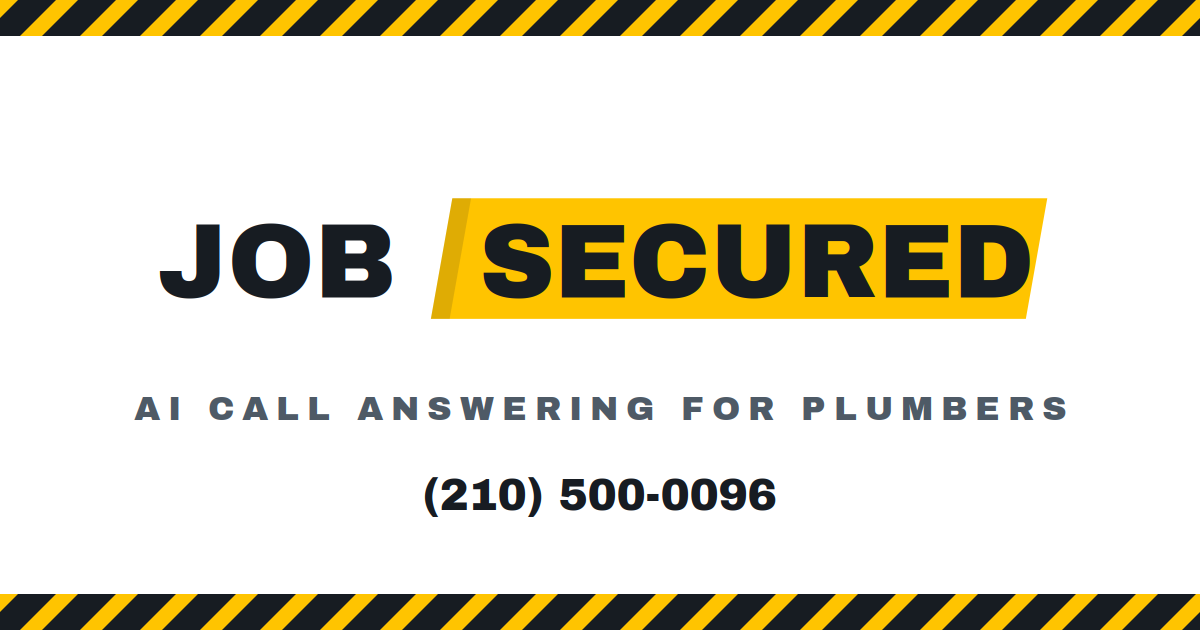
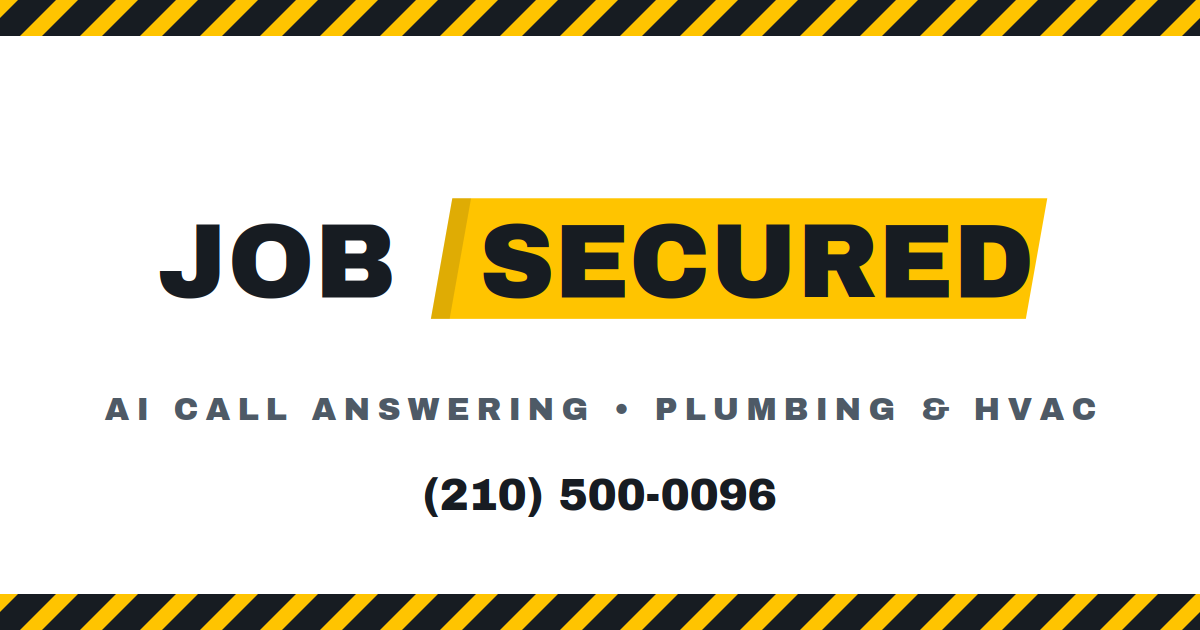
Adjust to fit hvac and background color change

Changed region(s): [[0.0925, 0.6333, 0.925, 0.6635]]

diff --git a/index.html b/index.html
@@ -3,8 +3,8 @@
 <head>
 <meta charset="UTF-8">
 <meta name="viewport" content="width=device-width, initial-scale=1.0">
-<title>JobSecured | AI Call Answering for Plumbers | San Antonio, TX</title>
-<meta name="description" content="JobSecured's AI receptionist answers every plumbing call you can't — 24/7. Books the job, texts you the lead, transfers real emergencies to your on-call phone. San Antonio, TX.">
+<title>JobSecured | AI Call Answering for Plumbing &amp; HVAC | San Antonio, TX</title>
+<meta name="description" content="JobSecured's AI receptionist answers every plumbing and HVAC call you can't — 24/7. Books the job, texts you the lead, transfers real emergencies to your on-call phone. San Antonio, TX.">
 <meta property="og:title" content="JobSecured | Never Miss Another Emergency Call">
 <meta property="og:description" content="An AI receptionist answers when you're under a sink or asleep. Books the job, texts you the lead, rings you for true emergencies.">
 <meta property="og:type" content="website">
@@ -20,7 +20,7 @@
   "@context": "https://schema.org",
   "@type": "LocalBusiness",
   "name": "JobSecured",
-  "description": "24/7 AI call answering for plumbing companies. Every missed call answered, every lead captured, emergencies transferred live.",
+  "description": "24/7 AI call answering for plumbing and HVAC companies. Every missed call answered, every lead captured, emergencies transferred live.",
   "telephone": "+1-210-500-0096",
   "address": {"@type": "PostalAddress", "addressLocality": "San Antonio", "addressRegion": "TX", "addressCountry": "US"},
   "areaServed": "San Antonio, TX",
@@ -58,7 +58,7 @@
 <section class="hero">
   <div class="wrap">
     <h1 class="reveal">Your next $2,800 job<br><span class="hl">calls at 2 a.m.</span></h1>
-    <p class="lede reveal">Will anybody answer? JobSecured's AI receptionist picks up every call you can't, books the job, and rings your on‑call phone the second a real emergency hits.</p>
+    <p class="lede reveal">Will anybody answer? A burst pipe or a dead AC in a Texas July — somebody's calling at 2 a.m. JobSecured's AI receptionist picks up every call you can't, books the job, and rings your on‑call phone the second a real emergency hits.</p>
     <div class="cta-row reveal">
       <a class="btn btn-solid" href="tel:+12105000096">Call for a live demo</a>
       <a class="btn btn-ghost" href="#calculator">See what missed calls cost you</a>
@@ -82,7 +82,7 @@
       <div class="step reveal"><span class="num">01</span><h3>Keep your number</h3><p>Nothing about your phone changes. Calls forward to the AI only when you can't answer or you're closed.</p></div>
       <div class="step reveal"><span class="num">02</span><h3>Every call answered</h3><p>A natural, professional voice greets your customer in one ring — in English or Spanish.</p></div>
       <div class="step reveal"><span class="num">03</span><h3>Leads hit your pocket</h3><p>Jobs get booked on your calendar. You get a text with name, number, and issue within a minute.</p></div>
-      <div class="step reveal"><span class="num">04</span><h3>Emergencies reach you</h3><p>Burst pipe at 2 AM? The call transfers straight to your on‑call phone, live.</p></div>
+      <div class="step reveal"><span class="num">04</span><h3>Emergencies reach you</h3><p>Burst pipe? AC out in a heat wave? The call transfers straight to your on‑call phone, live.</p></div>
     </div>
   </div>
 </section>
@@ -99,7 +99,7 @@
         <label for="ticket">Your average job ticket
           <span class="calc-val" id="ticketVal">$450</span>
         </label>
-        <input type="range" id="ticket" min="100" max="3000" value="450" step="50">
+        <input type="range" id="ticket" min="100" max="6000" value="450" step="50">
         <label for="close">Of missed callers you could win back
           <span class="calc-val" id="closeVal">25%</span>
         </label>
@@ -146,7 +146,7 @@
       <div class="tier hot reveal">
         <span class="chip">Most Popular</span>
         <h3>Full Coverage</h3>
-        <p class="tag">The one most plumbers pick</p>
+        <p class="tag">The one most shops pick</p>
         <div class="price">$299</div>
         <div class="per">PER MONTH</div>
         <ul>
@@ -191,7 +191,7 @@
     </details>
     <details>
       <summary>What if it quotes the wrong price or promises something?</summary>
-      <div class="a">It can't. It's hard‑locked to the price ranges you approve, and it always says the plumber confirms exact pricing on site. You approve every word before it goes live, and every transcript gets reviewed weekly.</div>
+      <div class="a">It can't. It's hard‑locked to the price ranges you approve, and it always says your tech confirms exact pricing on site. You approve every word before it goes live, and every transcript gets reviewed weekly.</div>
     </details>
     <details>
       <summary>My wife / office manager answers our phones.</summary>

diff --git a/styles.css b/styles.css
@@ -3,6 +3,7 @@
    Ink / safety yellow / hazard stripe. Mobile-first.
    ========================================================== */
 :root{
+  --paper:#F9F7F3;
   --ink:#171C22;
   --ink-soft:#242B33;
   --panel:#F1F3F6;
@@ -19,7 +20,7 @@ html{scroll-behavior:smooth;scroll-padding-top:74px}
 body{
   font-family:'Archivo',system-ui,-apple-system,sans-serif;
   color:var(--ink);
-  background:var(--white);
+  background:var(--paper);
   line-height:1.55;
   -webkit-font-smoothing:antialiased;
 }
@@ -36,7 +37,7 @@ img{max-width:100%;display:block}
 /* ---------- header / nav ---------- */
 header{
   position:sticky;top:0;z-index:40;
-  background:var(--white);
+  background:var(--paper);
   border-bottom:1px solid var(--line);
 }
 .head-in{display:flex;align-items:center;gap:22px;padding:16px 0}
@@ -67,7 +68,7 @@ header{
 .nav-toggle[aria-expanded="true"] span:nth-child(3){transform:translateY(-7px) rotate(-45deg)}
 .mobile-nav{
   display:none;flex-direction:column;
-  border-top:1px solid var(--line);background:var(--white);
+  border-top:1px solid var(--line);background:var(--paper);
 }
 .mobile-nav.open{display:flex}
 .mobile-nav a{
@@ -98,7 +99,7 @@ header{
 }
 .btn-solid{background:var(--yellow);color:var(--ink)}
 .btn-solid:hover{background:var(--yellow-hover)}
-.btn-ghost{background:var(--white);color:var(--ink)}
+.btn-ghost{background:var(--paper);color:var(--ink)}
 .btn-ghost:hover{background:var(--panel)}
 .cta-note{margin-top:14px;font-size:.85rem;color:var(--faint)}
 